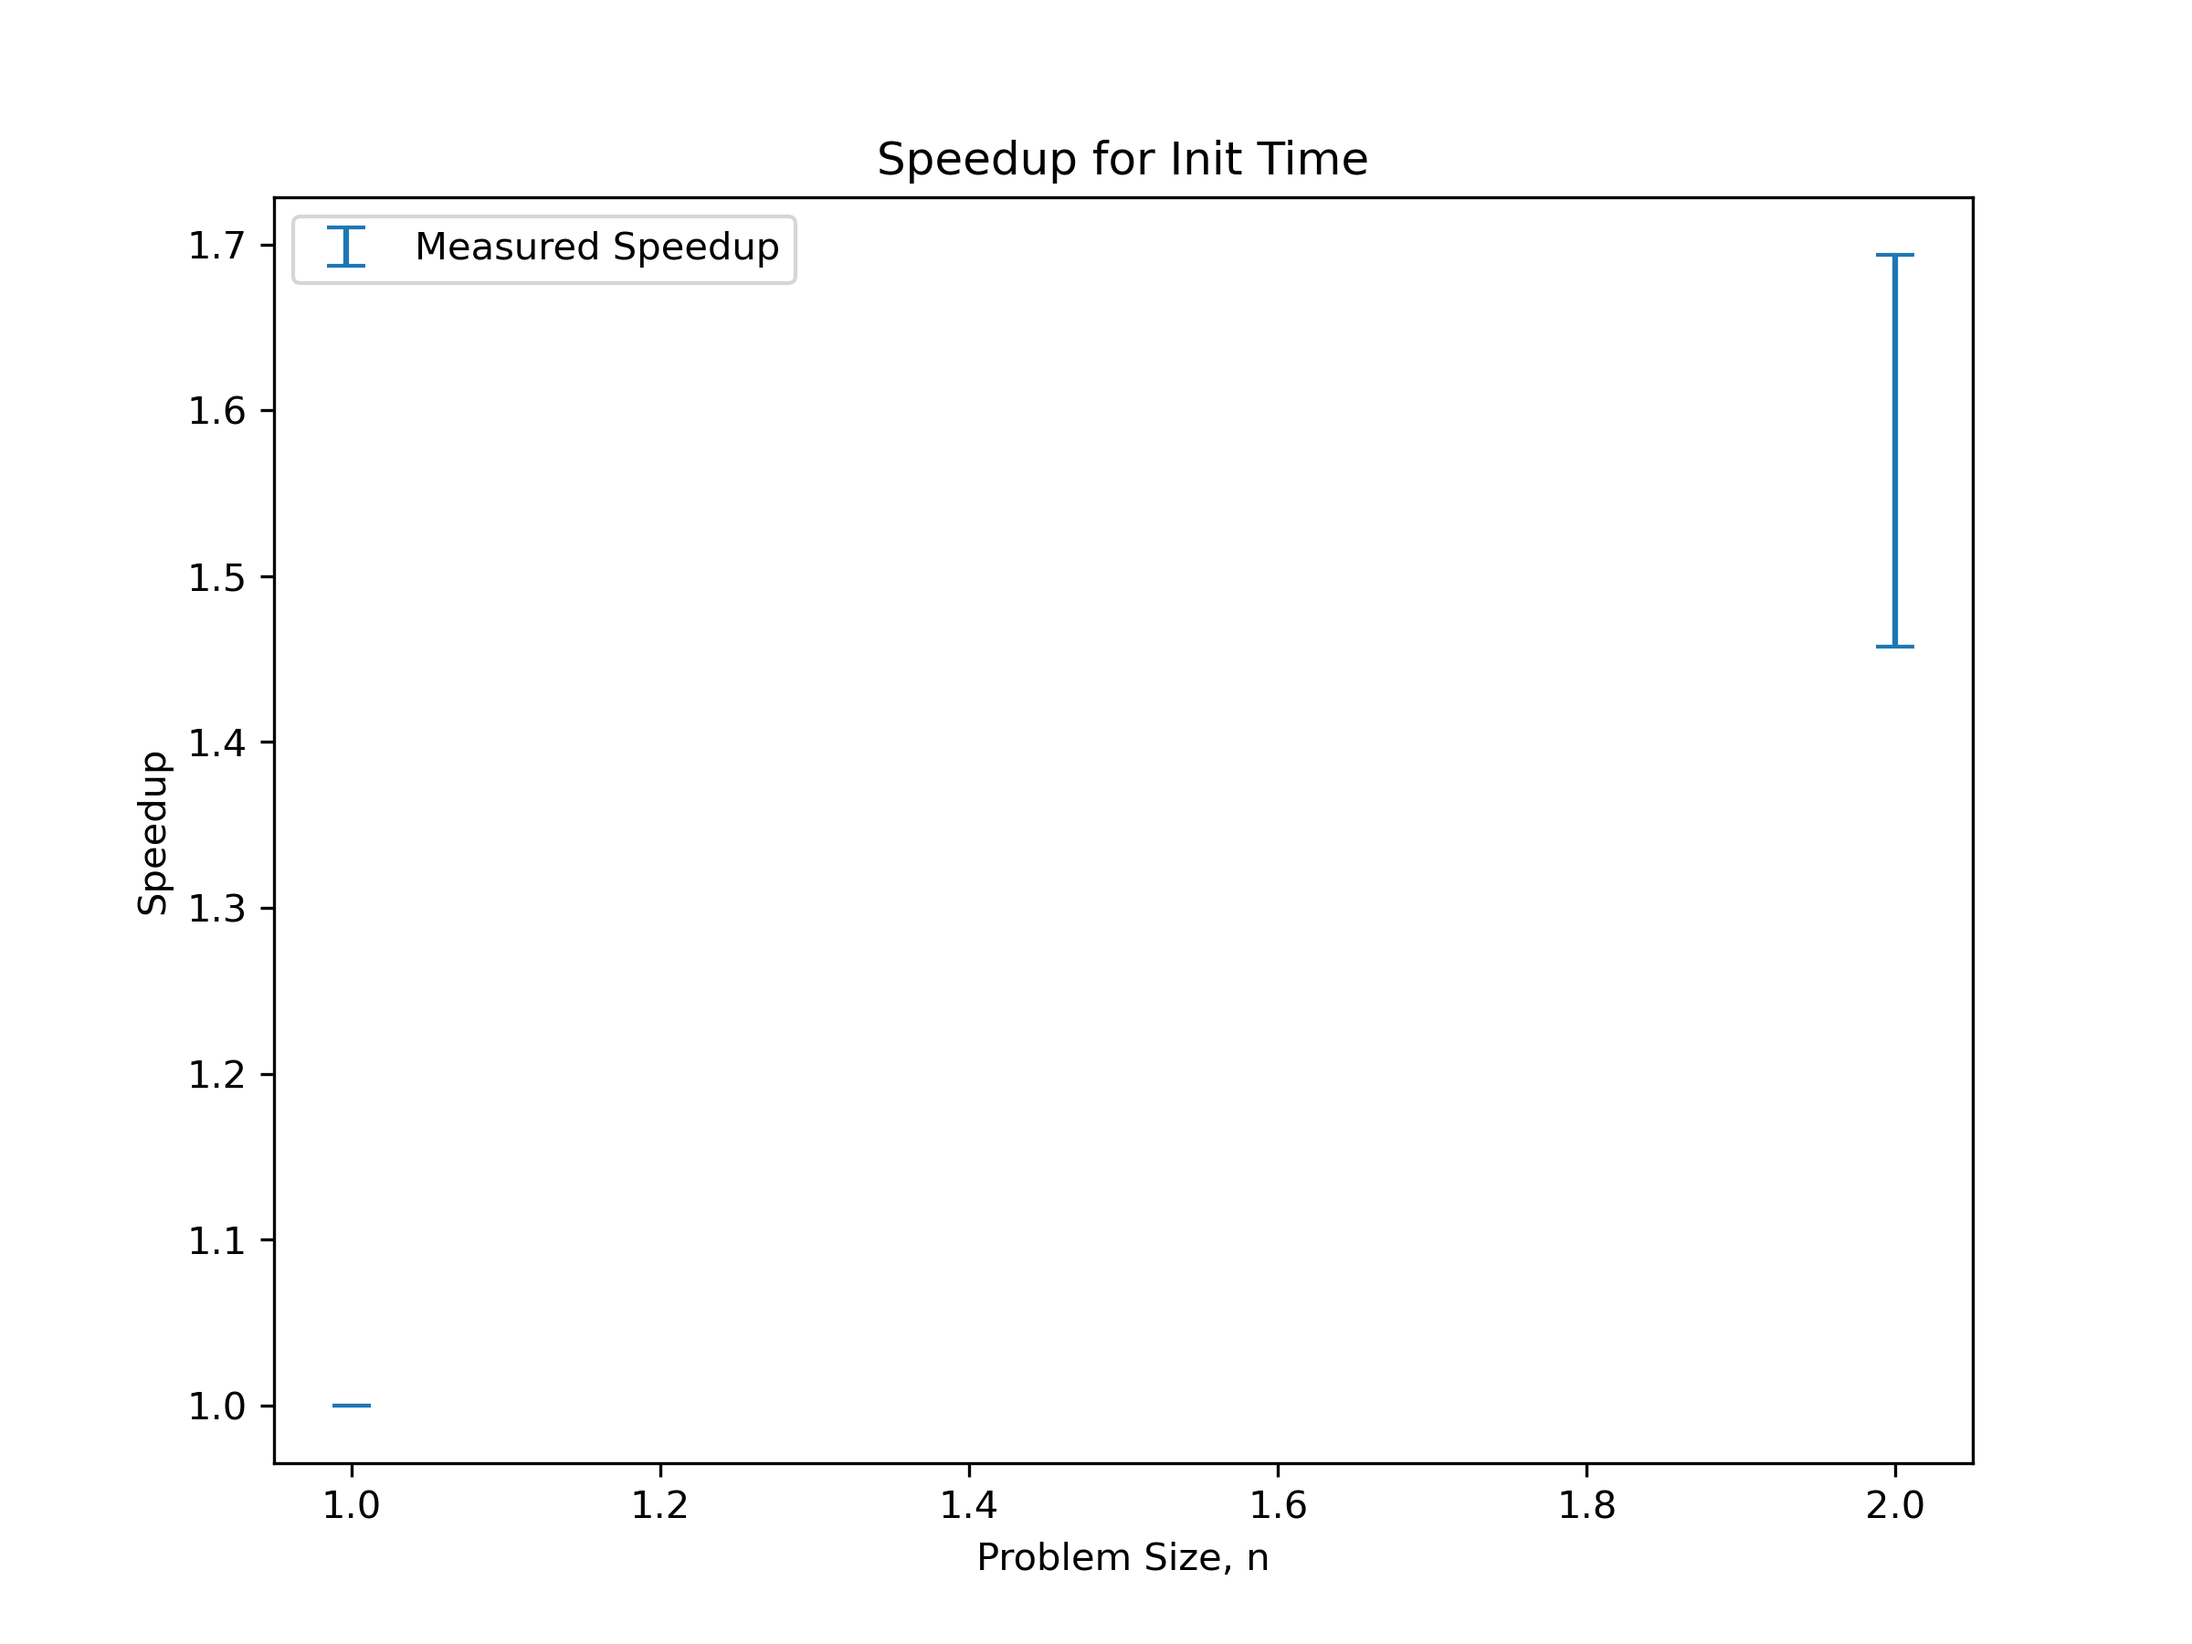
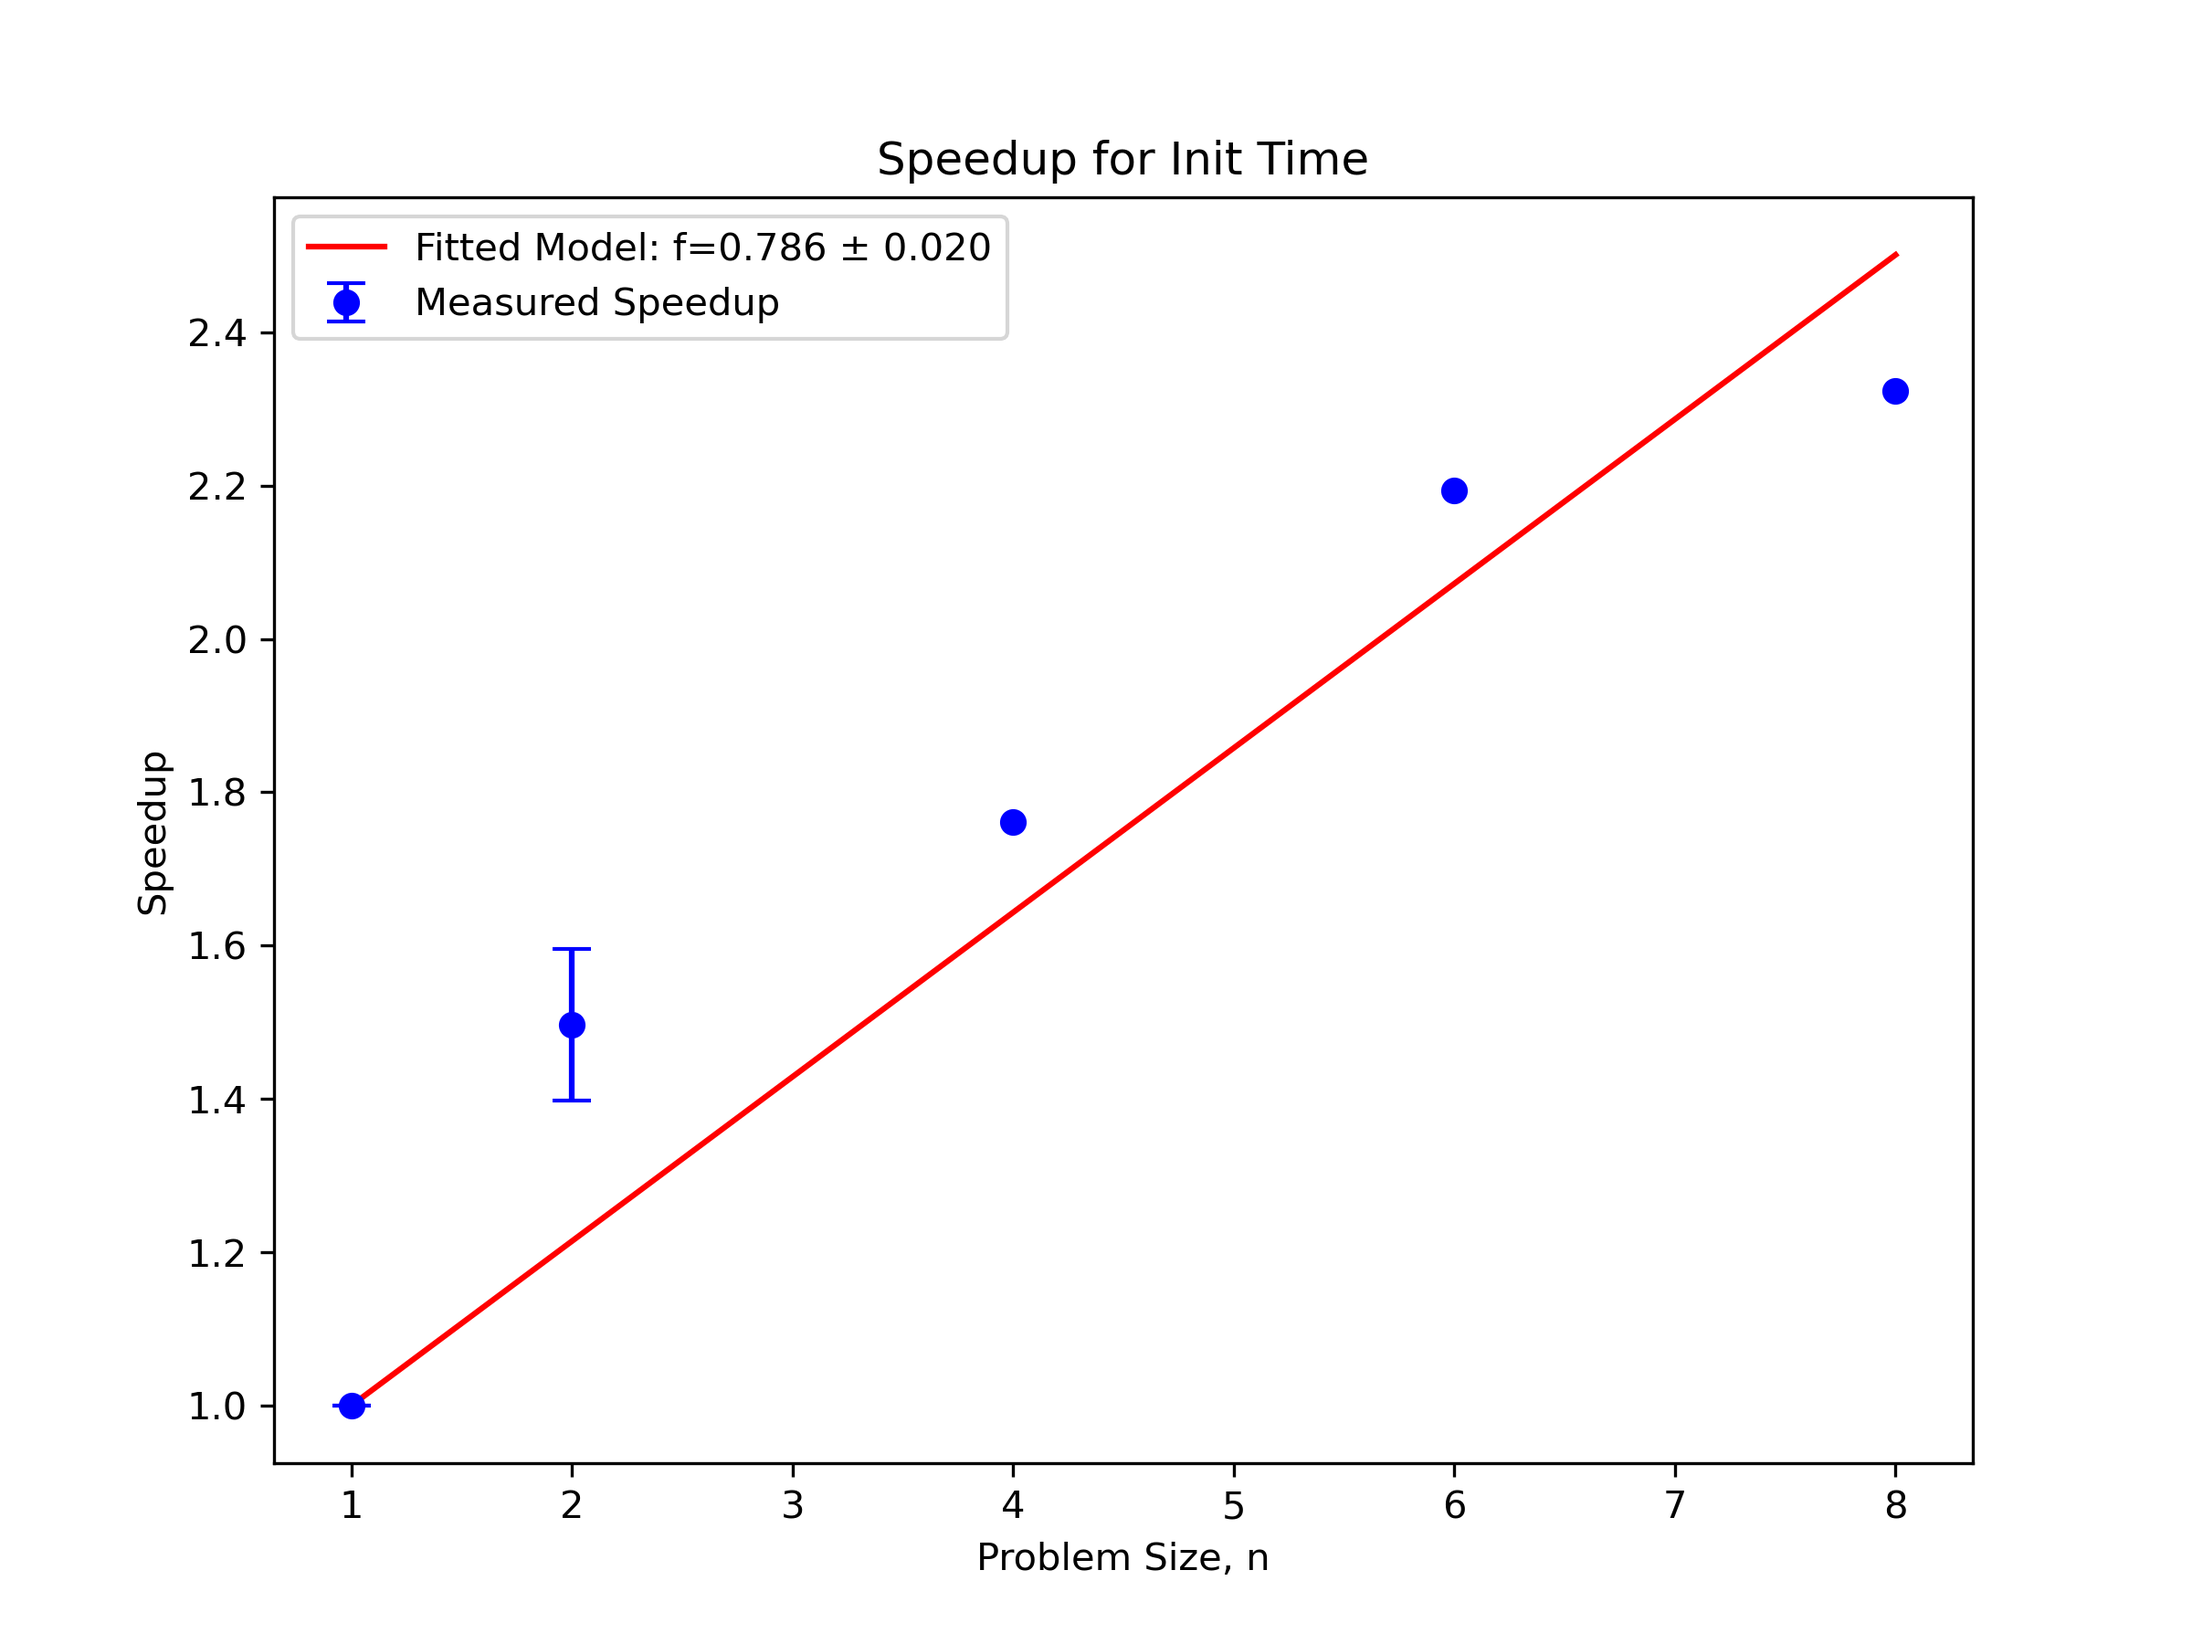
udated python script to not use the errors (change later when more data is available)

diff --git a/coursework/part2_direc/part2.py b/coursework/part2_direc/part2.py
@@ -67,7 +67,7 @@ speedup_df.loc[speedup_df['max_size'] == 1, se_cols] = 0.0
 print(speedup_df)
 for col in time_cols:
     xs = np.arange(1, speedup_df['max_size'].max() + 1)
-    popt, pcov = optimize.curve_fit(speedup_model, speedup_df['max_size'], speedup_df[f'{col}_speedup'], sigma=speedup_df[f'{col}_speedup_se'], absolute_sigma=True,p0=[0.9])
+    popt, pcov = optimize.curve_fit(speedup_model, speedup_df['max_size'], speedup_df[f'{col}_speedup'],p0=[0.9],bounds=(0,1))
     ys = speedup_model(xs, *popt)
     yerr = np.sqrt(np.diag(pcov))
     
@@ -76,8 +76,9 @@ for col in time_cols:
         speedup_df['problem_size'],
         speedup_df[f'{col}_speedup'],
         yerr=speedup_df[f'{col}_speedup_se'],
-        capsize=5,linestyle="",marker="",label="Measured Speedup",
-        color = "blue"
+        capsize=5,linestyle="",label="Measured Speedup",
+        color = "blue",
+        marker = "o"
     )
     ax.plot(xs, ys, label=f"Fitted Model: f={popt[0]:.3f} ± {yerr[0]:.3f}", color="red")
     ax.set_xlabel("Problem Size, n")
